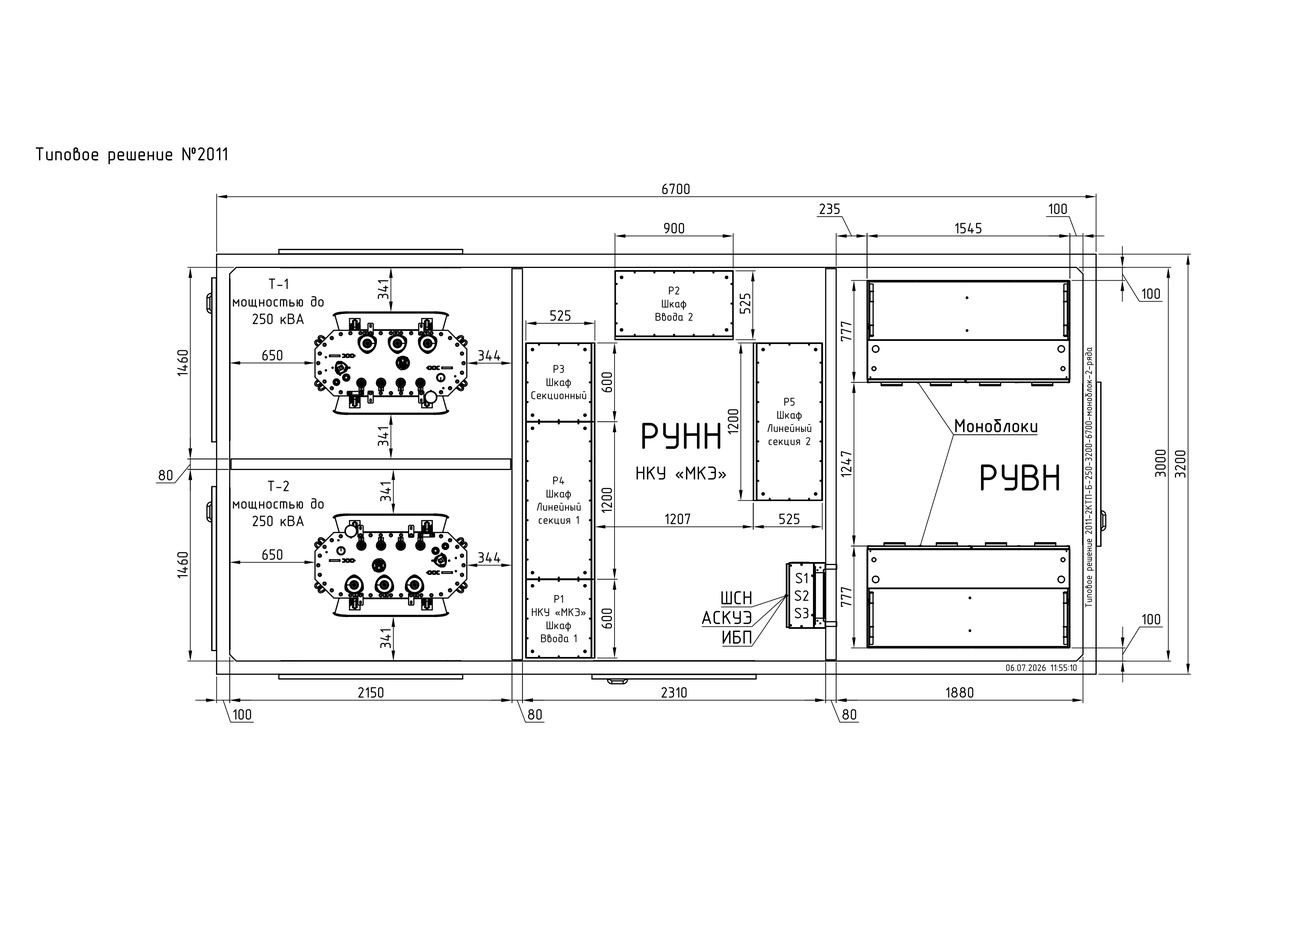
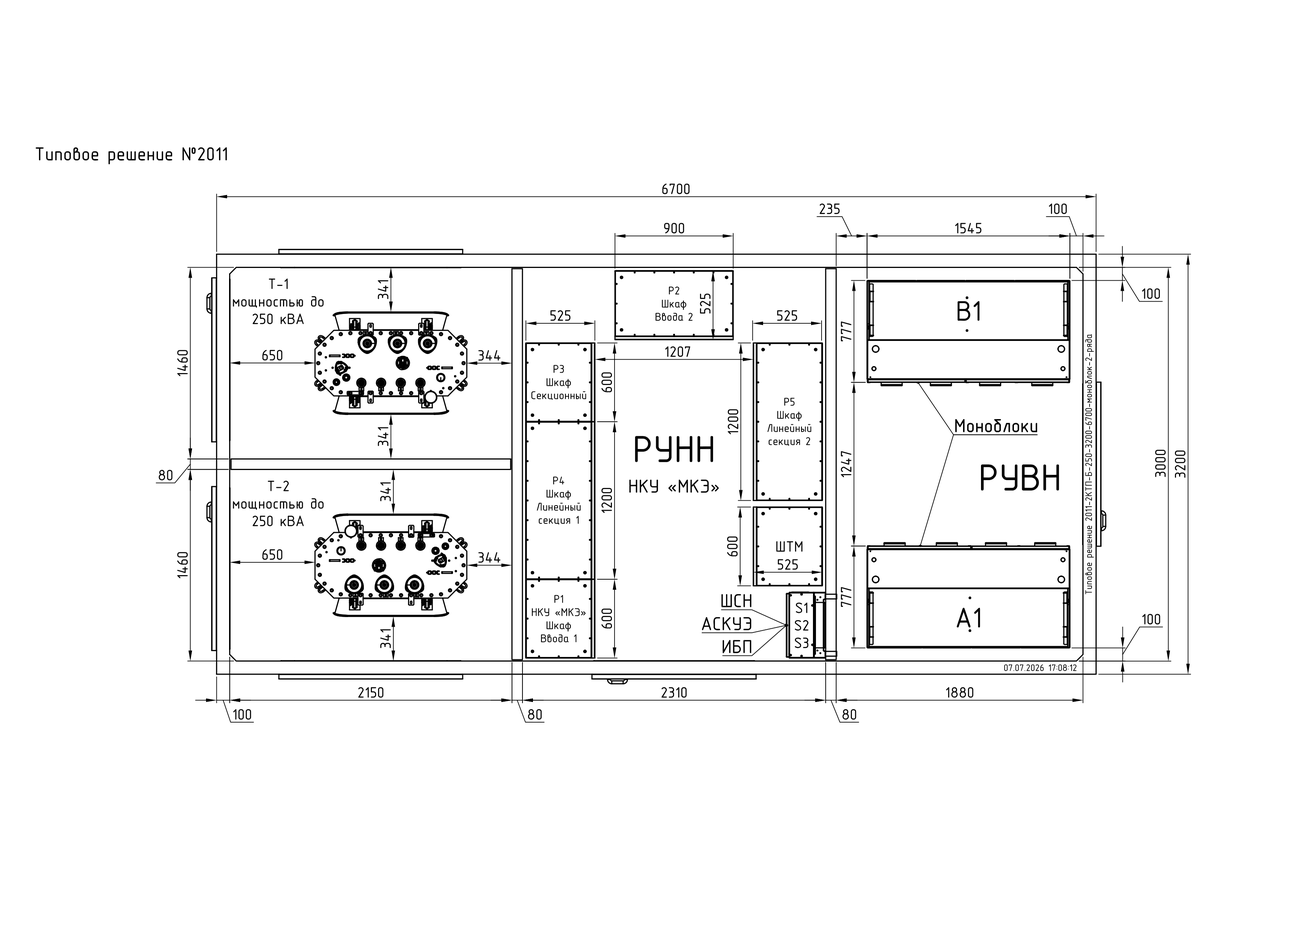
add: Типовое решение ШТМ

diff --git a/assets/css/extended/custom.css b/assets/css/extended/custom.css
@@ -1,3 +1,74 @@
+/* Базовые переменные для светлой темы */
+html {
+    --table-bg: #ffffff;
+    --table-text: #333333;
+    /* Светлый красный для шапки (#ff0011 с осветлением) */
+    --header-bg: hsl(356, 100%, 65%); 
+    --header-text: #ffffff;
+    --row-border: #eeeeee;
+    --zebra-bg: #f9f9f9;
+    --hover-bg: #f1f1f1;
+    --shadow: 0 4px 15px rgba(0, 0, 0, 0.05);
+}
+
+/* Переменные для темной темы (по вашему образцу) */
+html[data-theme="dark"] {
+    --table-bg: #1e1e1e;       /* Темный фон таблицы */
+    --table-text: #e0e0e0;     /* Светлый текст */
+    --header-bg: hsl(356, 100%, 45%); /* Приглушенный красный для темной темы */
+    --header-text: #ffffff;
+    --row-border: #333333;     /* Контрастные границы строк */
+    --zebra-bg: #252525;       /* Четкое разделение строк-зебр */
+    --hover-bg: #2d2d2d;       /* Подсветка при наведении */
+    --shadow: 0 4px 15px rgba(0, 0, 0, 0.5);
+}
+
+/* Стилизация таблицы */
+table {
+    width: 100%;
+    border-collapse: collapse;
+    background-color: var(--table-bg);
+    color: var(--table-text);
+    margin: 20px 0;
+    font-size: 16px;
+    font-family: sans-serif;
+    box-shadow: var(--shadow);
+    transition: background-color 0.3s, color 0.3s;
+}
+
+thead tr {
+    background-color: var(--header-bg);
+    color: var(--header-text);
+    text-align: left;
+}
+
+/* Увеличили левый отступ до 24px, чтобы текст не прилипал к краю */
+th, td {
+    padding: 12px 15px 12px 24px; 
+}
+
+tbody tr {
+    border-bottom: 1px solid var(--row-border);
+}
+
+/* Чередование строк (зебра) */
+tbody tr:nth-child(even) {
+    background-color: var(--zebra-bg);
+}
+
+/* Финальная линия в тон шапки */
+tbody tr:last-of-type {
+    border-bottom: 1px solid var(--header-bg);
+}
+
+/* Эффект наведения */
+tbody tr:hover {
+    background-color: var(--hover-bg);
+    /*cursor: pointer;*/
+}
+
+/* ====================== ЯНДЕКС ИНФОРМЕР ====================== */
+
 .ym-advanced-informer{
     margin: 10px auto;
 }
@@ -85,18 +156,19 @@ html[data-theme="dark"] #lightbox img[src$=".png"] {
 }
 
 /* 2 колонки — планшеты */
-@media (min-width: 768px) and (max-width: 1199px) {
+/*@media (min-width: 768px) and (max-width: 1199px) {*/
+@media (min-width: 768px) {
   .gallery {
     grid-template-columns: repeat(2, 1fr);
   }
 }
 
-/* 3 колонки — по умолчанию на компьютерах и выше */
+/* 3 колонки — по умолчанию на компьютерах и выше
 @media (min-width: 1200px) {
   .gallery {
     grid-template-columns: repeat(3, 1fr);
   }
-}
+}*/
 
 .gallery-item {
   background: #f8f9fa;

diff --git a/content/ru/ktp/ktp-mke.md b/content/ru/ktp/ktp-mke.md
@@ -191,33 +191,33 @@ editPost:
 
 ### Таблица применяемого оборудования 2КТП-Б
 
-| Номер типового решения | Ширина КТП, мм | Длина КТП, мм | 100 кВА | 160 кВА | 250 кВА | 400 кВА | 630 кВА | Тип оборудования РУВН | Компоновка РУВН | Подключение РУНН к Т1, Т2 | Наименование типового решения |
-|:---------:|:--------:|:-------:|:---------:|:---------:|:---------:|:---------:|---------|-----------------------|----------------|---------------------------|--------------|
-| 2001    | 3000   | 6500+ | Да      | Да      |–         |–         |–         | Моноблок - 6 шт. (МАХ) | 1 ряд          | Одностороннее             | 2001-2КТП-Б-160-3000-6500-моноблок-1-ряд |
-| 2002    | 3000   | 6500+ | Да      | Да      |–         |–         |–         | КРУ 300 - 6 шт. (МАХ)  | 1 ряд          | Одностороннее             | 2002-2КТП-Б-160-3000-6500-КРУ-300-1-ряд |
-| 2003    | 3000   | 8000  | Да      | Да      | Да      |–         |–         | Моноблок - 6 шт. (МАХ) | 1 ряд          | Двухстороннее             | 2003-2КТП-Б-250-3000-8000-моноблок-1-ряд |
-| 2004    | 3000   | 8000  | Да      | Да      | Да      |–         |–         | КРУ 300 - 6 шт. (МАХ)  | 1 ряд          | Двухстороннее             | 2004-2КТП-Б-250-3000-8000-КРУ-300-1-ряд |
-| 2005    | 3000   | 8540+ | Да      | Да      | Да      | Да      | Да      | Моноблок - 6 шт. (МАХ) | 1 ряд          | Двухстороннее             | 2005-2КТП-Б-630-3000-8540-моноблок-1-ряд |
-| 2006    | 3000   | 8540+ | Да      | Да      | Да      | Да      | Да      | КРУ 300 - 6 шт. (МАХ)  | 1 ряд          | Двухстороннее             | 2006-2КТП-Б-630-3000-8540-КРУ-300-1-ряд |
-| 2007    | 3000   | 8540+ | Да      | Да      | Да      |–         |–         | Моноблок - 8 шт. (МАХ) | Угловое        | Двухстороннее             | 2007-2КТП-Б-250-3000-8540-моноблок-угловое |
-| 2008    | 3000   | 8540+ | Да      | Да      | Да      |–         |–         | КРУ 300 - 8 шт. (МАХ)  | Угловое        | Двухстороннее             | 2008-2КТП-Б-250-3000-8540-КРУ-300-угловое |
-| 2009    | 3200   | 6700+ | Да      | Да      | Да      |–         |–         | Моноблок - 6 шт. (МАХ) | 1 ряд          | Одностороннее             | 2009-2КТП-Б-250-3200-6500-моноблок-1-ряд |
-| 2010    | 3200   | 6700+ | Да      | Да      | Да      |–         |–         | КРУ 300 - 6 шт. (МАХ)  | 1 ряд          | Одностороннее             | 2010-2КТП-Б-250-3200-6500-КРУ-300-1-ряд |
-| 2011    | 3200   | 6700+ | Да      | Да      | Да      |–         |–         | Моноблок - 8 шт. (МАХ) | 2 ряда         | Одностороннее             | 2011-2КТП-Б-250-3200-6700-моноблок-2-ряда |
-| 2012    | 3200   | 7500+ | Да      | Да      | Да      |–         |–         | КСО 000 - 6 шт. (МАХ)  | 2 ряда         | Одностороннее             | 2012-2КТП-Б-250-3200-7500-КСО-000-2-ряда |
-| 2013    | 3500   | 7100  | Да      | Да      | Да      | Да      | Да      | Моноблок - 8 шт. (МАХ) | 1 ряд          | Одностороннее             | 2013-2КТП-Б-630-3500-7100-моноблок-1-ряд |
-| 2014    | 3500   | 7100  | Да      | Да      | Да      | Да      | Да      | КРУ 300 - 6 шт. (МАХ)  | 1 ряд          | Одностороннее             | 2014-2КТП-Б-630-3500-7100-КРУ-300-1-ряд |
-| 2015    | 3500   | 7500  | Да      | Да      | Да      | Да      | Да      | КСО 900 - 8 шт. (МАХ)  | 1 ряд          | Одностороннее             | 2015-2КТП-Б-630-3500-7500-КСО-900-1-ряд |
-| 2016    | 3500   | 7300  | Да      | Да      | Да      | Да      | Да      | Моноблок - 10 шт. (МАХ)| 2 ряда         | Одностороннее             | 2016-2КТП-Б-630-3500-7300-моноблок-2-ряда |
-| 2017    | 3500   | 7300  | Да      | Да      | Да      | Да      | Да      | КРУ 300 - 8 шт. (МАХ)  | 2 ряда         | Одностороннее             | 2017-2КТП-Б-630-3500-7300-КРУ-300-2-ряда |
-| 2018    | 3500   | 8400+ | Да      | Да      | Да      | Да      | Да      | КСО 900 - 10 шт. (МАХ) | Угловое        | Одностороннее             | 2018-2КТП-Б-630-3500-8400-КСО-900-угловое |
-| 2019    | 3500   | 8400+ | Да      | Да      | Да      | Да      | Да      | Моноблок - 10 шт. (МАХ)| Угловое        | Одностороннее             | 2019-2КТП-Б-630-3500-8400-моноблок-угловое |
-| 2020    | 3500   | 8400+ | Да      | Да      | Да      | Да      | Да      | КРУ 300 - 10 шт. (МАХ) | Угловое        | Одностороннее             | 2020-2КТП-Б-630-3500-8400-КРУ-300-угловое |
-| 2021    | 3500   | 8400+ | Да      | Да      | Да      | Да      | Да      | КРУ 200 - 6 шт. (МАХ)  | Угловое        | Одностороннее             | 2021-2КТП-Б-630-3500-8400-КРУ-200-угловое |
+| Номер типового решения | ШхДхВ, мм | 100 кВА | 160 кВА | 250 кВА | 400 кВА | 630 кВА | <center>Оборудование РУВН (максимально)</center> | <center>Наименование типового решения</center> |
+|:---:|:---:|:---:|:---:|:---:|:---:|:---:|:---|:---|
+| [2001](#2001) | 3000х6500х2700 | ✅ | ✅ | ❌ | ❌ | ❌ | Моноблоки – 6 шт. | <span style="white-space: nowrap;">2001-2КТП-Б-160-3000-6500-моноблок-1-ряд</span> |
+| [2002](#2002) | 3000х6500х2700 | ✅ | ✅ | ❌ | ❌ | ❌ | КРУ «МКЭ» (схемы 301 - 322) – 6 шт. | <span style="white-space: nowrap;">2002-2КТП-Б-160-3000-6500-КРУ-300-1-ряд</span> |
+| [2003](#2003) | 3000х8000х2700 | ✅ | ✅ | ✅ | ❌ | ❌ | Моноблоки – 6 шт. | <span style="white-space: nowrap;">2003-2КТП-Б-250-3000-8000-моноблок-1-ряд</span> |
+| [2004](#2004) | 3000х8000х2700 | ✅ | ✅ | ✅ | ❌ | ❌ | КРУ «МКЭ» (схемы 301 - 322) – 6 шт. | <span style="white-space: nowrap;">2004-2КТП-Б-250-3000-8000-КРУ-300-1-ряд</span> |
+| [2005](#2005) | 3000х8540х2700 | ✅ | ✅ | ✅ | ✅ | ✅ | Моноблоки – 6 шт. | <span style="white-space: nowrap;">2005-2КТП-Б-630-3000-8540-моноблок-1-ряд</span> |
+| [2006](#2006) | 3000х8540х2700 | ✅ | ✅ | ✅ | ✅ | ✅ | КРУ «МКЭ» (схемы 301 - 322) – 6 шт. | <span style="white-space: nowrap;">2006-2КТП-Б-630-3000-8540-КРУ-300-1-ряд</span> |
+| [2007](#2007) | 3000х8540х2700 | ✅ | ✅ | ✅ | ❌ | ❌ | Моноблоки – 8 шт. | <span style="white-space: nowrap;">2007-2КТП-Б-250-3000-8540-моноблок-угловое</span> |
+| [2008](#2008) | 3000х8540х2700 | ✅ | ✅ | ✅ | ❌ | ❌ | КРУ «МКЭ» (схемы 301 - 322) – 8 шт. | <span style="white-space: nowrap;">2008-2КТП-Б-250-3000-8540-КРУ-300-угловое</span> |
+| [2009](#2009) | 3200х6700х2700 | ✅ | ✅ | ✅ | ❌ | ❌ | Моноблоки – 6 шт. | <span style="white-space: nowrap;">2009-2КТП-Б-250-3200-6500-моноблок-1-ряд</span> |
+| [2010](#2010) | 3200х6700х2700 | ✅ | ✅ | ✅ | ❌ | ❌ | КРУ «МКЭ» (схемы 301 - 322) – 6 шт. | <span style="white-space: nowrap;">2010-2КТП-Б-250-3200-6500-КРУ-300-1-ряд</span> |
+| [2011](#2011) | 3200х6700х2700 | ✅ | ✅ | ✅ | ❌ | ❌ | Моноблоки – 8 шт. | <span style="white-space: nowrap;">2011-2КТП-Б-250-3200-6700-моноблок-2-ряда</span> |
+| [2012](#2012) | 3200х7500х2700 | ✅ | ✅ | ✅ | ❌ | ❌ | КСО «МКЭ» (схемы 001 - 100) – 6 шт. | <span style="white-space: nowrap;">2012-2КТП-Б-250-3200-7500-КСО-000-2-ряда</span> |
+| [2013](#2013) | 3500х7100х2700 | ✅ | ✅ | ✅ | ✅ | ✅ | Моноблоки – 8 шт. | <span style="white-space: nowrap;">2013-2КТП-Б-630-3500-7100-моноблок-1-ряд</span> |
+| [2014](#2014) | 3500х7100х2700 | ✅ | ✅ | ✅ | ✅ | ✅ | КРУ «МКЭ» (схемы 301 - 322) – 6 шт. | <span style="white-space: nowrap;">2014-2КТП-Б-630-3500-7100-КРУ-300-1-ряд</span> |
+| [2015](#2015) | 3500х7500х2700 | ✅ | ✅ | ✅ | ✅ | ✅ | КСО «МКЭ» (схемы 901 - 940) – 8 шт. | <span style="white-space: nowrap;">2015-2КТП-Б-630-3500-7500-КСО-900-1-ряд</span> |
+| [2016](#2016) | 3500х7300х2700 | ✅ | ✅ | ✅ | ✅ | ✅ | Моноблоки – 10 шт. | <span style="white-space: nowrap;">2016-2КТП-Б-630-3500-7300-моноблок-2-ряда</span> |
+| [2017](#2017) | 3500х7300х2700 | ✅ | ✅ | ✅ | ✅ | ✅ | КРУ «МКЭ» (схемы 301 - 322) – 8 шт. | <span style="white-space: nowrap;">2017-2КТП-Б-630-3500-7300-КРУ-300-2-ряда</span> |
+| [2018](#2018) | 3500х8400х2700 | ✅ | ✅ | ✅ | ✅ | ✅ | КСО «МКЭ» (схемы 901 - 940) – 10 шт. | <span style="white-space: nowrap;">2018-2КТП-Б-630-3500-8400-КСО-900-угловое</span> |
+| [2019](#2019) | 3500х8400х2700 | ✅ | ✅ | ✅ | ✅ | ✅ | Моноблок – 10 шт. | <span style="white-space: nowrap;">2019-2КТП-Б-630-3500-8400-моноблок-угловое</span> |
+| [2020](#2020) | 3500х8400х2700 | ✅ | ✅ | ✅ | ✅ | ✅ | КРУ «МКЭ» (схемы 301 - 322) – 10 шт. | <span style="white-space: nowrap;">2020-2КТП-Б-630-3500-8400-КРУ-300-угловое</span> |
+| [2021](#2021) | 3500х8400х2700 | ✅ | ✅ | ✅ | ✅ | ✅ | КРУ «МКЭ» (схемы 201 - 227) – 6 шт. | <span style="white-space: nowrap;">2021-2КТП-Б-630-3500-8400-КРУ-200-угловое</span> |
 
 <div class="gallery">
 
-<div class="gallery-item">
+<div class="gallery-item" id="2001">
 
 ### Типовое решение №2001
 
@@ -229,18 +229,18 @@ caption="КТП «МКЭ» мощностью **не более 160кВА** (300
 
 </div>
 
-<div class="gallery-item">
+<div class="gallery-item" id="2002">
 
 ### Типовое решение №2002
 
 {{< gallery src="../img/2002-2ktp-b-160-3000-6500-kru-300-1-ryad.png"
 alt="2002-2КТП-Б-160-3000-6500-КРУ-300-1-ряд"
-caption="КТП «МКЭ» мощностью **не более 160кВА** (3000х6500х2700 мм) с **КРУ «МКЭ» с твердой изоляцией** (схемы 301 – 322) установленными на стороне РУВН с **однорядным расположением**"
+caption="КТП «МКЭ» мощностью **не более 160кВА** (3000х6500х2700 мм) с **КРУ «МКЭ» с твердой изоляцией** (схемы 301 - 322) установленными на стороне РУВН с **однорядным расположением**"
 >}}
 
 </div>
 
-<div class="gallery-item">
+<div class="gallery-item" id="2003">
 
 ### Типовое решение №2003
 
@@ -252,19 +252,19 @@ caption="КТП «МКЭ» мощностью **не более 250кВА** (300
 
 </div>
 
-<div class="gallery-item">
+<div class="gallery-item" id="2004">
 
 ### Типовое решение №2004
 
 {{< gallery
 src="../img/2004-2ktp-b-250-3000-8000-kru-300-1-ryad.png"
 alt="2004-2КТП-Б-250-3000-8000-КРУ-300-1-ряд"
-caption="КТП «МКЭ» мощностью **не более 250кВА** (3000х8000х2700 мм) с **КРУ «МКЭ» с твердой изоляцией** (схемы 301 – 322) установленными на стороне РУВН с **однорядным расположением**"
+caption="КТП «МКЭ» мощностью **не более 250кВА** (3000х8000х2700 мм) с **КРУ «МКЭ» с твердой изоляцией** (схемы 301 - 322) установленными на стороне РУВН с **однорядным расположением**"
 >}}
 
 </div>
 
-<div class="gallery-item">
+<div class="gallery-item" id="2005">
 
 ### Типовое решение №2005
 
@@ -276,19 +276,19 @@ caption="КТП «МКЭ» мощностью **не более 250кВА** (300
 
 </div>
 
-<div class="gallery-item">
+<div class="gallery-item" id="2006">
 
 ### Типовое решение №2006
 
 {{< gallery
 src="../img/2006-2ktp-b-630-3000-8540-kru-300-1-ryad.png"
 alt="2006-2КТП-Б-630-3000-8540-КРУ-300-1-ряд"
-caption="КТП «МКЭ» мощностью **не более 250кВА** (3000х8540х2700 мм) с **КРУ «МКЭ» с твердой изоляцией** (схемы 301 – 322) установленными на стороне РУВН с **однорядным расположением**"
+caption="КТП «МКЭ» мощностью **не более 250кВА** (3000х8540х2700 мм) с **КРУ «МКЭ» с твердой изоляцией** (схемы 301 - 322) установленными на стороне РУВН с **однорядным расположением**"
 >}}
 
 </div>
 
-<div class="gallery-item">
+<div class="gallery-item" id="2007">
 
 ### Типовое решение №2007
 
@@ -300,18 +300,18 @@ caption="КТП «МКЭ» мощностью **не более 250кВА** (320
 
 </div>
 
-<div class="gallery-item">
+<div class="gallery-item" id="2008">
 
 ### Типовое решение №2008
 
 {{< gallery
 src="../img/2008-2ktp-b-250-3000-8540-kru-300-uglovoe.png"
 alt="2008-2КТП-Б-250-3000-8540-КРУ-300-угловое"
-caption="КТП «МКЭ» мощностью **не более 250кВА** (3200х6500х2700 мм) с **КРУ «МКЭ» с твердой изоляцией** (схемы 301 – 322) установленными на стороне РУВН с **угловым расположением**"
+caption="КТП «МКЭ» мощностью **не более 250кВА** (3200х6500х2700 мм) с **КРУ «МКЭ» с твердой изоляцией** (схемы 301 - 322) установленными на стороне РУВН с **угловым расположением**"
 >}}
 
 </div>
-<div class="gallery-item">
+<div class="gallery-item" id="2009">
 
 ### Типовое решение №2009
 
@@ -323,19 +323,19 @@ caption="КТП «МКЭ» **не более 250кВА** (3200х6700х2700 мм)
 
 </div>
 
-<div class="gallery-item">
+<div class="gallery-item" id="2010">
 
 ### Типовое решение №2010
 
 {{< gallery
 src="../img/2010-2ktp-b-250-3200-6500-kru-300-1-ryad.png"
 alt="2010-2КТП-Б-250-3200-6500-КРУ-300-1-ряд"
-caption="КТП «МКЭ» **не более 250кВА** (3200х6500х2700 мм) с **КРУ «МКЭ» с твердой изоляцией** (схемы 301 – 322) установленными на стороне РУВН с **однорядным расположением**"
+caption="КТП «МКЭ» **не более 250кВА** (3200х6500х2700 мм) с **КРУ «МКЭ» с твердой изоляцией** (схемы 301 - 322) установленными на стороне РУВН с **однорядным расположением**"
 >}}
 
 </div>
 
-<div class="gallery-item">
+<div class="gallery-item" id="2011">
 
 ### Типовое решение №2011
 
@@ -347,31 +347,31 @@ caption="КТП «МКЭ» мощностью **не более 250кВА** (320
 
 </div>
 
-<!--
-<div class="gallery-item">
+<div class="gallery-item" id="2012">
 
 ### Типовое решение №2012
 
 {{< gallery
-src="../img/1012-2ktp-b-630-3000-8540-monoblok-1-ryad.png"
+src="../img/2012-2ktp-b-250-3200-7500-kso-000-2-ryada.png"
 alt=""
-caption="КТП «МКЭ» мощностью **не более 630кВА** (3000х8540х2700 мм) с **моноблоками** установленными на стороне РУВН с угловым расположением"
+caption="КТП «МКЭ» мощностью **не более 250кВА** (3200х7500х2700 мм) с **КСО «МКЭ»** (схемы 001 - 100) установленными на стороне РУВН с **двухрядным расположением**"
 >}}
 
 </div>
 
-<div class="gallery-item">
+<div class="gallery-item" id="2013">
 
 ### Типовое решение №2013
 
 {{< gallery
-src="../img/1013-2ktp-b-630-3500-7100-kru-300-1-ryad.png"
+src="../img/2013-2ktp-b-630-3500-7100-monoblok-1-ryad.png"
 alt=""
-caption="КТП «МКЭ» мощностью **не более 630кВА** (3500х7100х2700 мм) с **КРУ «МКЭ» с твердой изоляцией** (схемы 301 – 322) установленными на стороне РУВН с однорядным расположением"
+caption="КТП «МКЭ» мощностью **не более 630кВА** (3500х7100х2700 мм) с **моноблоками** установленными на стороне РУВН с **однорядным расположением**"
 >}}
 
 </div>
 
+<!--
 <div class="gallery-item">
 
 ### Типовое решение №2014
